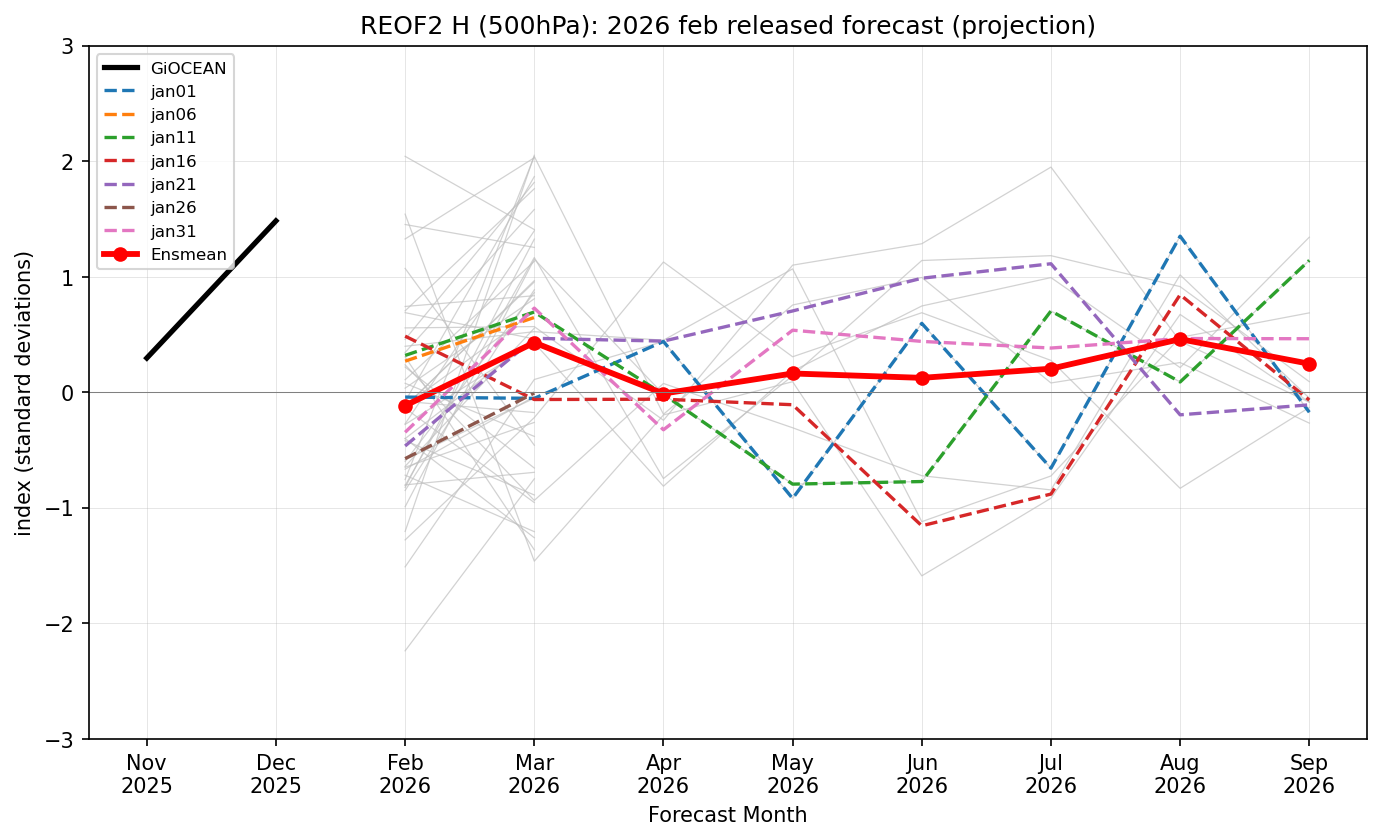
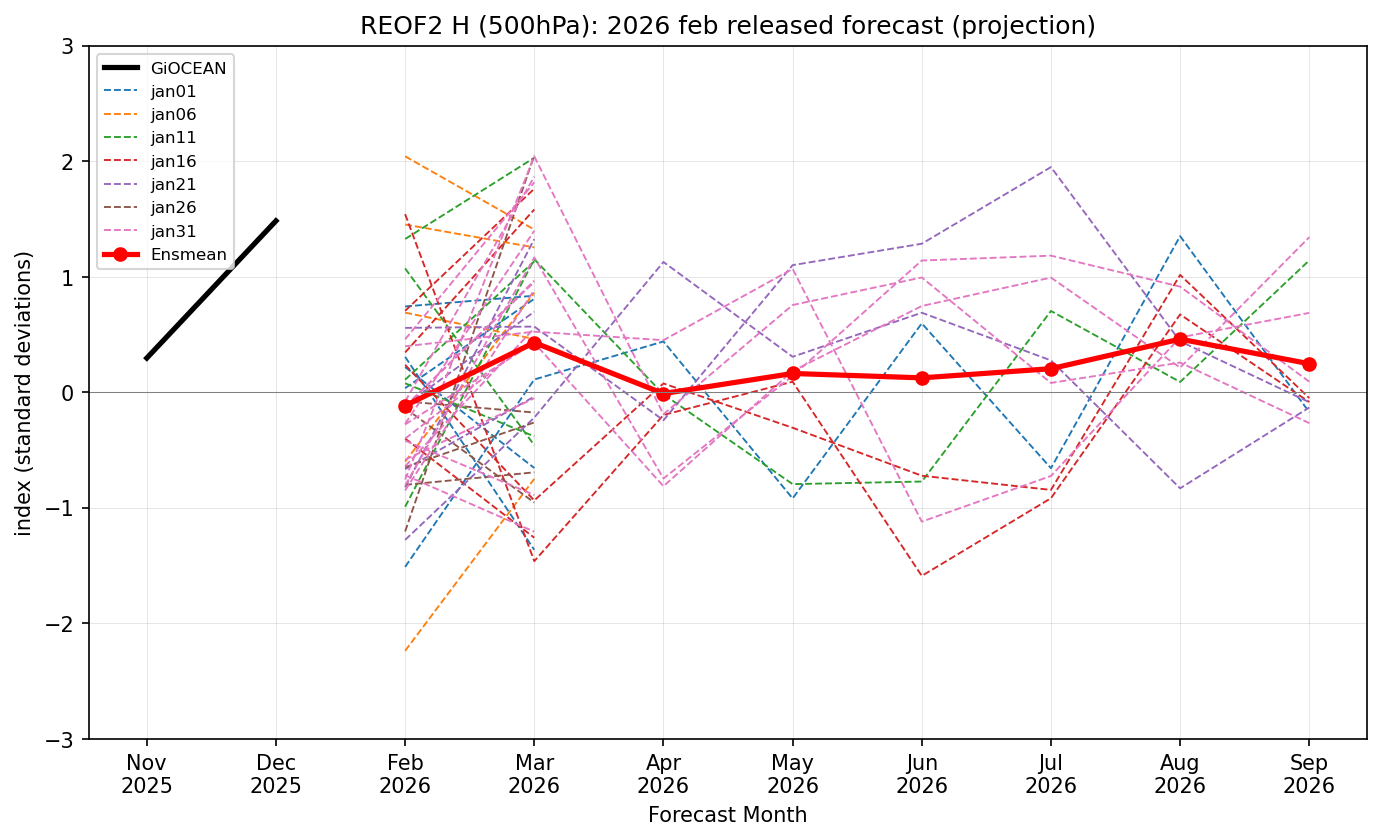
Return to the plume style with every member dashed in its start date's colour

diff --git a/scripts/04_plume_s2s3.py b/scripts/04_plume_s2s3.py
@@ -144,10 +144,9 @@ def read_observed(level, mode):
 
 
 def plume_plot(months, groups, mean, observed, heading, out_png):
-    """The layout of the GMAO plume plots, decluttered for a 45-member
-    ensemble: the observed index as a solid black lead-in, every member as a
-    faint grey line, each start date's average as one coloured dashed line,
-    and the full ensemble mean as a heavy red line with markers."""
+    """The layout of the GMAO plume plots: the observed index as a solid
+    black lead-in, each start date's members dashed in one colour, and the
+    ensemble mean as a heavy red line with markers."""
     obs_months = sorted(observed)
     axis = ([f"{_MONTH[int(t[4:])]}\n{t[:4]}" for t in obs_months]
             + list(months))
@@ -158,17 +157,13 @@ def plume_plot(months, groups, mean, observed, heading, out_png):
         ax.plot(axis[:len(obs_months)],
                 [observed[t] for t in obs_months],
                 "-", color="black", linewidth=2.5, label="GiOCEAN")
-    for curves in groups.values():
-        for values in curves:
-            ax.plot(axis, pad + list(values), "-", color="0.75",
-                    linewidth=0.6, alpha=0.7)
     colors = plt.get_cmap("tab10")
     for i, (init, curves) in enumerate(sorted(groups.items())):
         label = f"{_MONTH[int(init[4:6])].lower()}{init[6:]}"
-        date_mean = np.nanmean(np.array(curves, dtype=float), axis=0)
-        ax.plot(axis, pad + list(date_mean), "--", color=colors(i % 10),
-                linewidth=1.6, label=label)
-    ax.plot(axis, pad + list(mean), "o-", color="red", linewidth=2.8,
+        for j, values in enumerate(curves):
+            ax.plot(axis, pad + list(values), "--", color=colors(i % 10),
+                    linewidth=0.9, label=label if j == 0 else None)
+    ax.plot(axis, pad + list(mean), "o-", color="red", linewidth=2.5,
             label="Ensmean")
     ax.axhline(0, color="grey", linewidth=0.5)
     ax.set_ylim(-3, 3)
